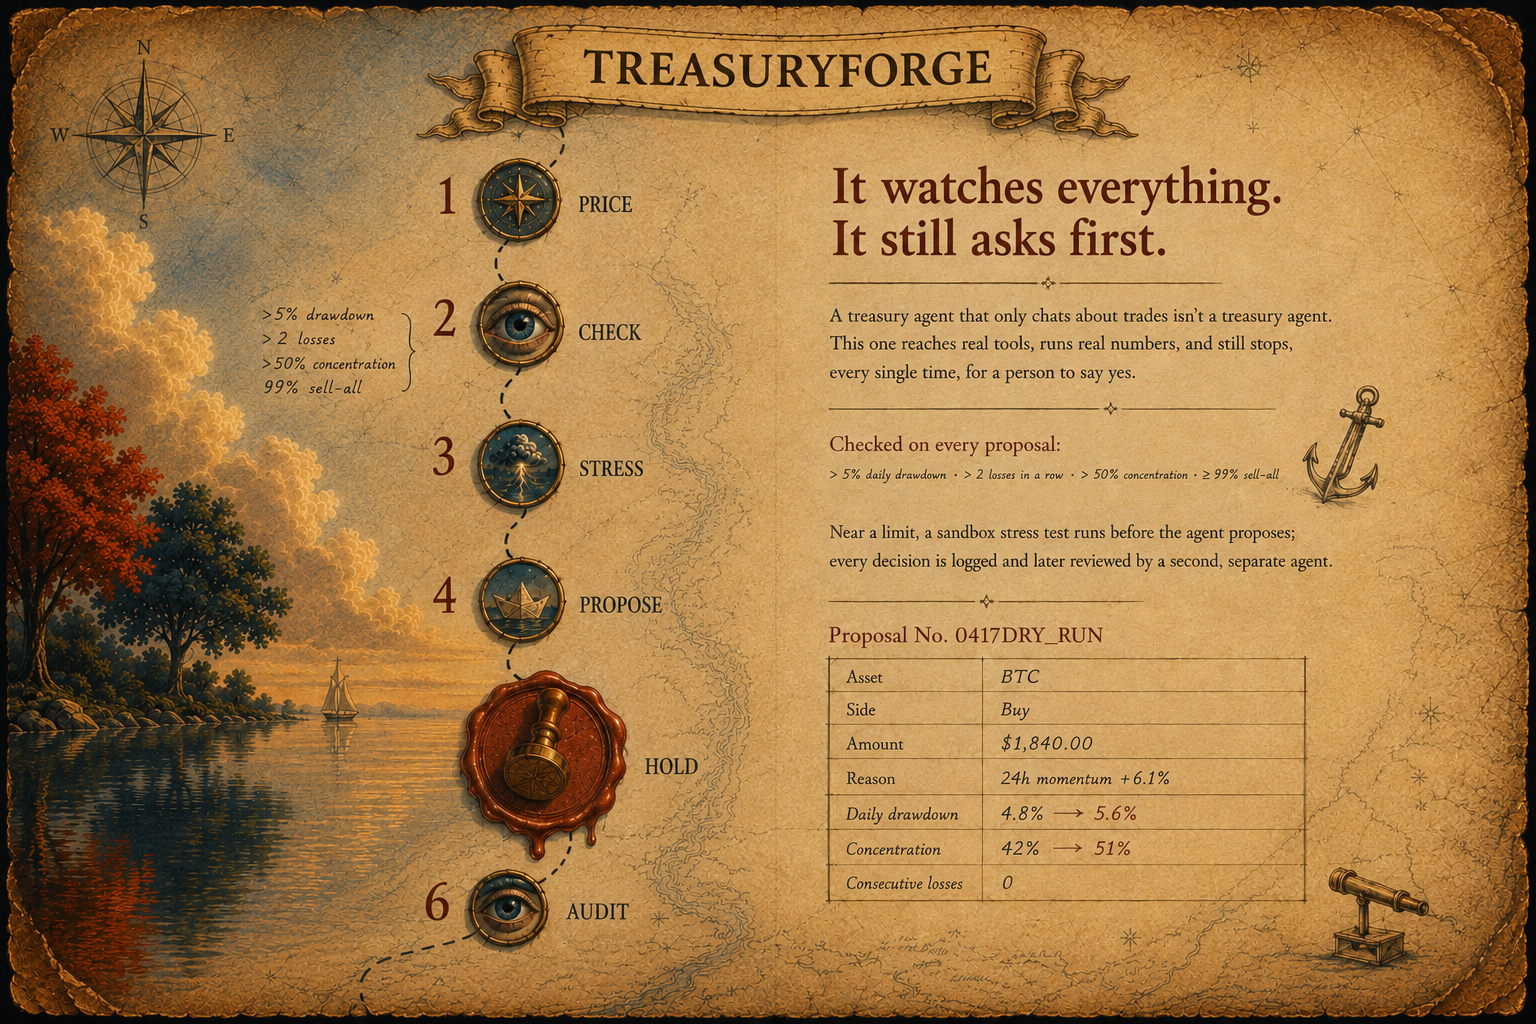
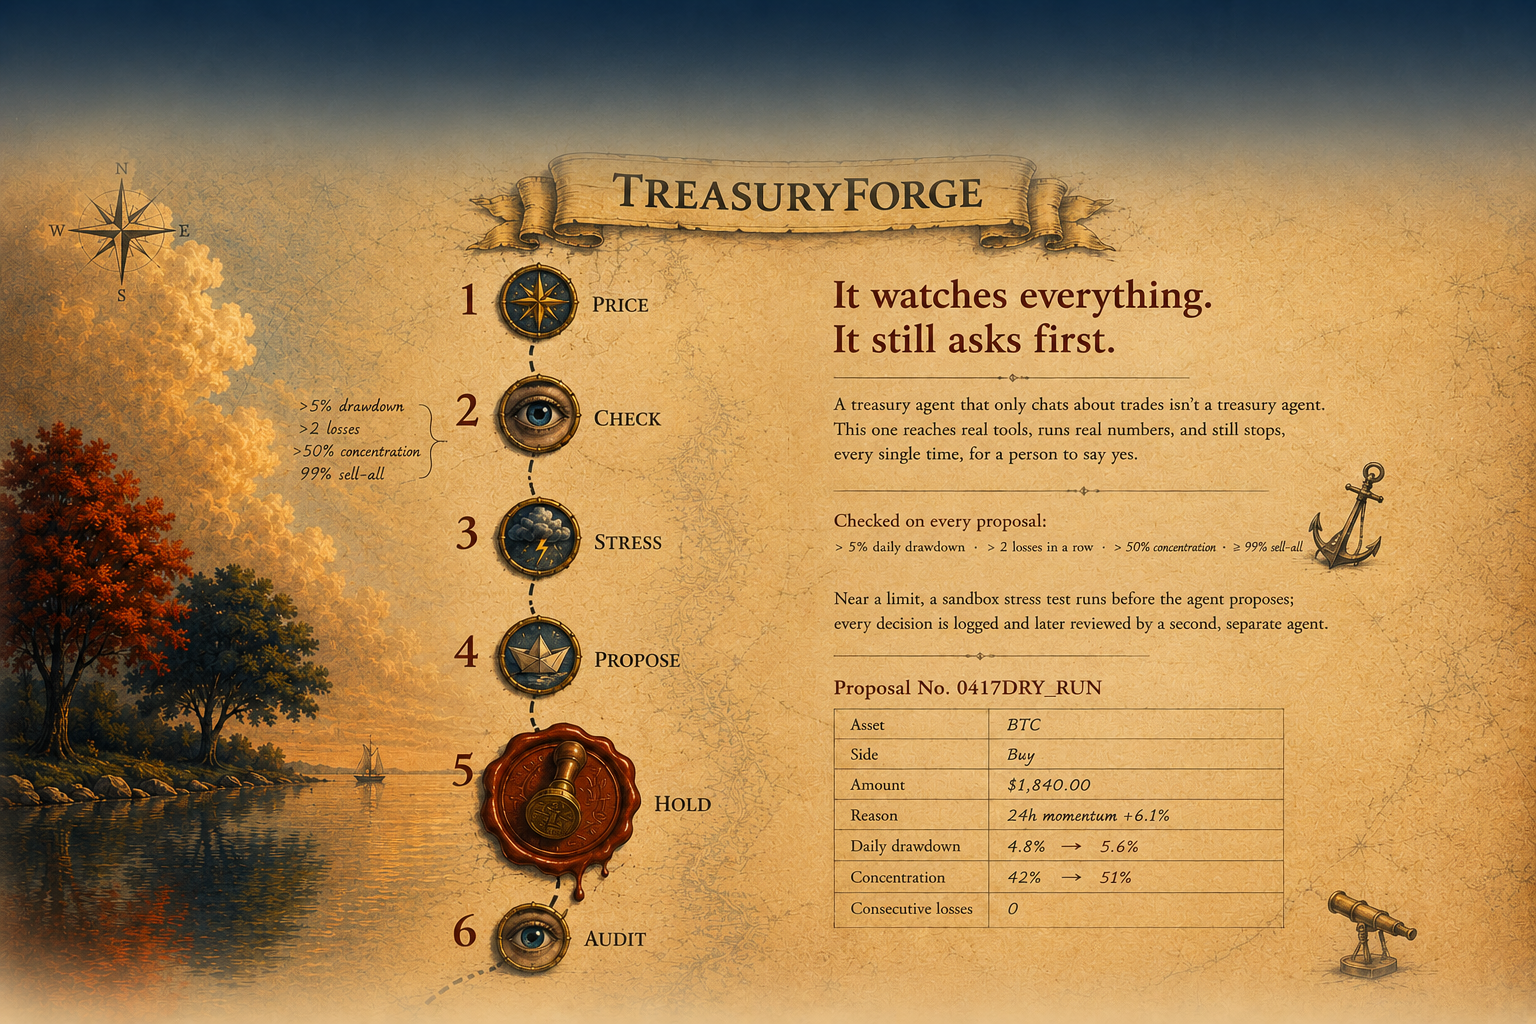
Switch back to the working section (info2.png now bakes in its own blend)
Reverted WhatWeBuilt.jsx to the section2-working checkpoint -- plain
object-fill on bg-paper, no spacer, no gradient, no transition image.
Every CSS/image attempt at the hero-seam blend is gone: the updated
info2.png now fades from navy to parchment at its own top edge, baked
into the artwork itself rather than assembled from separate layers.
transition.png is unused now and removed.

diff --git a/frontend/components/landing/WhatWeBuilt.jsx b/frontend/components/landing/WhatWeBuilt.jsx
@@ -2,23 +2,15 @@ import Image from "next/image";
 
 export default function WhatWeBuilt() {
   return (
-    <section id="how-it-works" className="relative flex min-h-screen flex-col bg-paper">
-      {/* A purpose-painted transition image (navy water/shore easing into
-          parchment gold) instead of a CSS-built gradient/texture -- a real
-          spacer in document flow, not an overlay on either image. */}
-      <div className="relative h-48 w-full shrink-0 md:h-64">
-        <Image src="/transition.png" alt="" fill priority sizes="100vw" className="object-cover object-center" />
-      </div>
-      <div className="relative flex-1">
-        <Image
-          src="/info2.png"
-          alt="TreasuryForge: a six-step chart -- price, check, stress, propose, hold, audit. Every trade is priced over live MCP quotes, checked against four computed limits (>5% daily drawdown, >2 losses in a row, >50% concentration, >=99% sell-all), stress-tested in a sandbox near a limit, proposed with its reasoning, held at TrueForge's approval gate, and logged for a second, separate agent to audit later."
-          fill
-          priority
-          sizes="100vw"
-          className="object-fill"
-        />
-      </div>
+    <section id="how-it-works" className="relative min-h-screen bg-paper">
+      <Image
+        src="/info2.png"
+        alt="TreasuryForge: a six-step chart -- price, check, stress, propose, hold, audit. Every trade is priced over live MCP quotes, checked against four computed limits (>5% daily drawdown, >2 losses in a row, >50% concentration, >=99% sell-all), stress-tested in a sandbox near a limit, proposed with its reasoning, held at TrueForge's approval gate, and logged for a second, separate agent to audit later."
+        fill
+        priority
+        sizes="100vw"
+        className="object-fill"
+      />
     </section>
   );
 }
